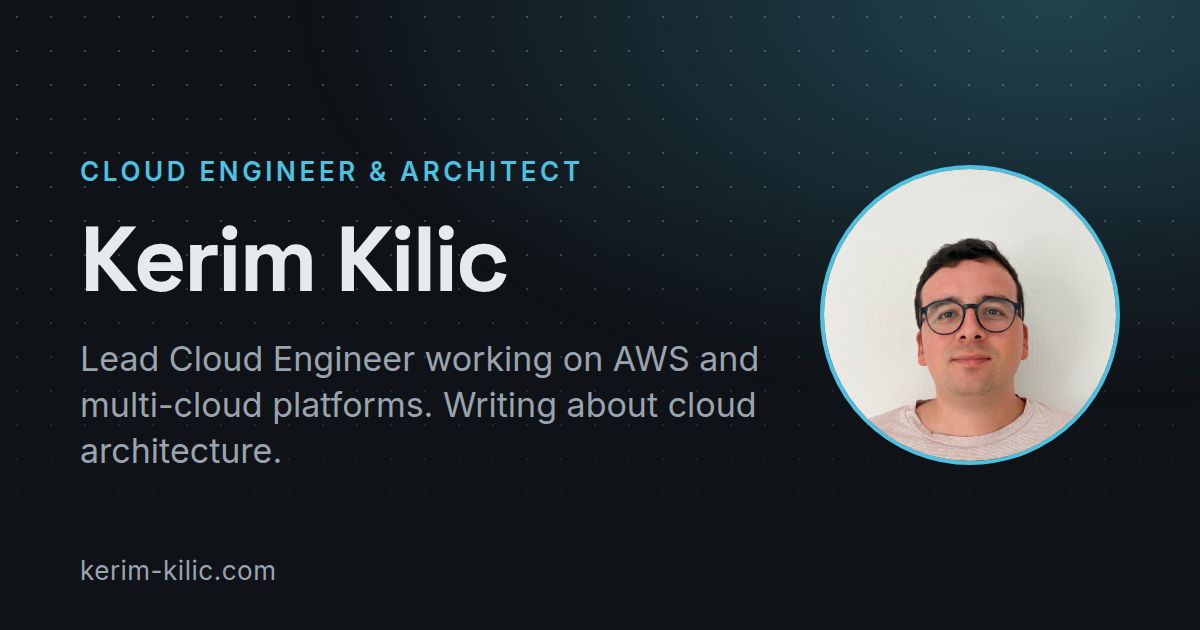
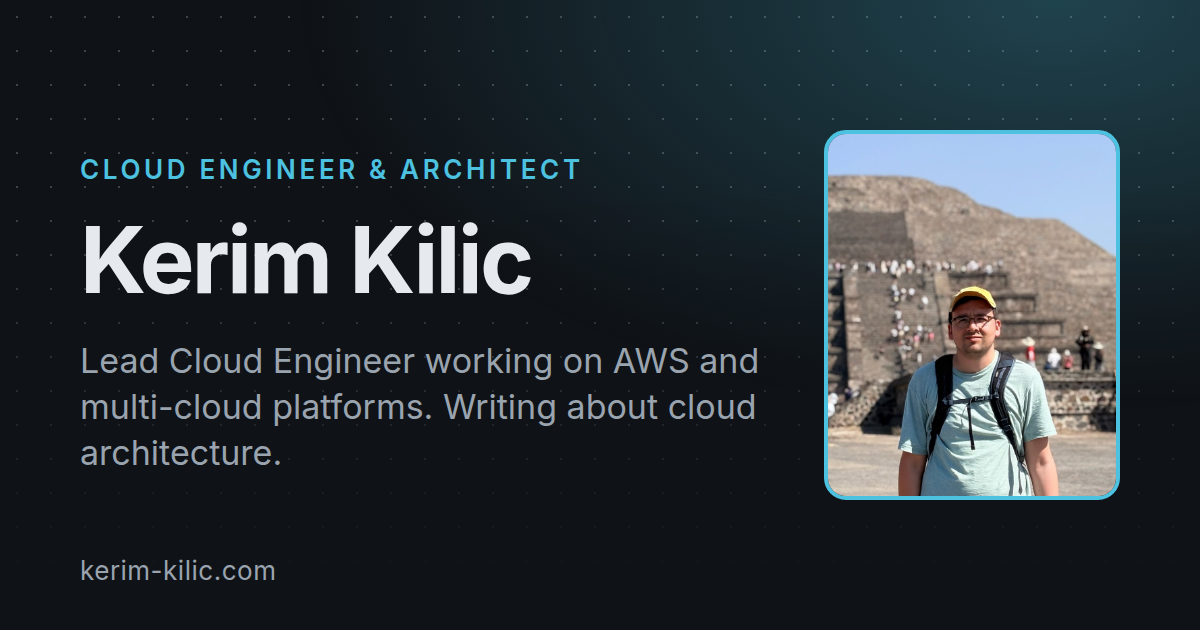
Use a more casual profile photo with a 4:5 rounded frame
- New photo, cropped 4:5 so the background shows; no metadata.
- Rounded-rectangle frame instead of a circle on Home, About and the social cards.
- Social cards re-rendered with the new photo and Inter.
- Cap the large photo variant at the source width.

diff --git a/assets/css/main.css b/assets/css/main.css
@@ -92,13 +92,13 @@ body.home::before {
   mask-image: linear-gradient(to bottom, #000 25%, transparent);
 }
 .hero { display: grid; grid-template-columns: minmax(0, var(--measure)) auto; align-items: center; justify-content: space-between; gap: 2rem; padding-block: 2rem 1rem; }
-.portrait { border-radius: 50%; object-fit: cover; aspect-ratio: 1; border: 1px solid var(--border); background: var(--surface); }
-.hero-photo { width: 10rem; height: 10rem; }
-.about-photo { float: right; width: 11rem; height: 11rem; margin: 0.25rem 0 1rem 1.5rem; }
+.portrait { border-radius: 14px; object-fit: cover; aspect-ratio: 4 / 5; border: 1px solid var(--border); background: var(--surface); }
+.hero-photo { width: 12.5rem; height: auto; }
+.about-photo { float: right; width: 11rem; height: auto; margin: 0.25rem 0 1rem 1.5rem; }
 @media (max-width: 40rem) {
   .hero { grid-template-columns: 1fr; gap: 1.25rem; }
-  .hero-photo { order: -1; width: 7rem; height: 7rem; }
-  .about-photo { width: 8rem; height: 8rem; margin-left: 1rem; }
+  .hero-photo { order: -1; width: 8rem; }
+  .about-photo { width: 8rem; margin-left: 1rem; }
 }
 .eyebrow, .credentials dt, .timeline .period, .contact-links small { font-size: 0.78rem; font-weight: 600; letter-spacing: 0.08em; text-transform: uppercase; }
 .eyebrow { color: var(--accent); margin: 0 0 0.75rem; }

diff --git a/tools/og/card.html b/tools/og/card.html
@@ -22,7 +22,7 @@
   .eyebrow { margin: 0 0 24px; color: var(--accent); font-size: 26px; font-weight: 600; letter-spacing: .14em; text-transform: uppercase; }
   h1 { margin: 0 0 28px; font-weight: 700; letter-spacing: -.03em; line-height: 1.1; }
   .sub { margin: 0; color: var(--muted); font-size: 34px; line-height: 1.35; }
-  .photo { position: relative; flex: none; width: 300px; height: 300px; border: 4px solid var(--accent); border-radius: 50%; object-fit: cover; }
+  .photo { position: relative; flex: none; width: 296px; height: 370px; border: 4px solid var(--accent); border-radius: 22px; object-fit: cover; }
   .foot { position: absolute; left: 80px; bottom: 44px; color: var(--muted); font-size: 26px; letter-spacing: .02em; }
 </style>
 </head>

diff --git a/layouts/_partials/profile-photo.html b/layouts/_partials/profile-photo.html
@@ -1,10 +1,10 @@
 {{- /* Context: dict with "class" and "sizes" (the CSS display width, e.g. "144px"). */ -}}
 {{- with resources.Get "images/profile.jpg" -}}
   {{- $small := .Resize "240x webp q85" -}}
-  {{- $large := .Resize "480x webp q85" -}}
+  {{- $large := .Resize (printf "%dx webp q85" (math.Min 480 .Width | int)) -}}
   <img class="portrait {{ $.class }}"
        src="{{ $small.RelPermalink }}"
-       srcset="{{ $small.RelPermalink }} 240w, {{ $large.RelPermalink }} 480w"
+       srcset="{{ $small.RelPermalink }} 240w, {{ $large.RelPermalink }} {{ $large.Width }}w"
        sizes="{{ $.sizes }}"
        width="{{ $small.Width }}" height="{{ $small.Height }}"
        alt="Kerim Kilic" decoding="async">

diff --git a/layouts/home.html b/layouts/home.html
@@ -9,7 +9,7 @@
       <a class="btn ghost" href="{{ site.Params.linkedin }}" rel="me noopener">{{ partial "icon.html" "linkedin" }}Connect on LinkedIn</a>
     </p>
   </div>
-  {{ partial "profile-photo.html" (dict "class" "hero-photo" "sizes" "160px") }}
+  {{ partial "profile-photo.html" (dict "class" "hero-photo" "sizes" "200px") }}
 </section>
 
 {{ partial "credentials.html" . }}
